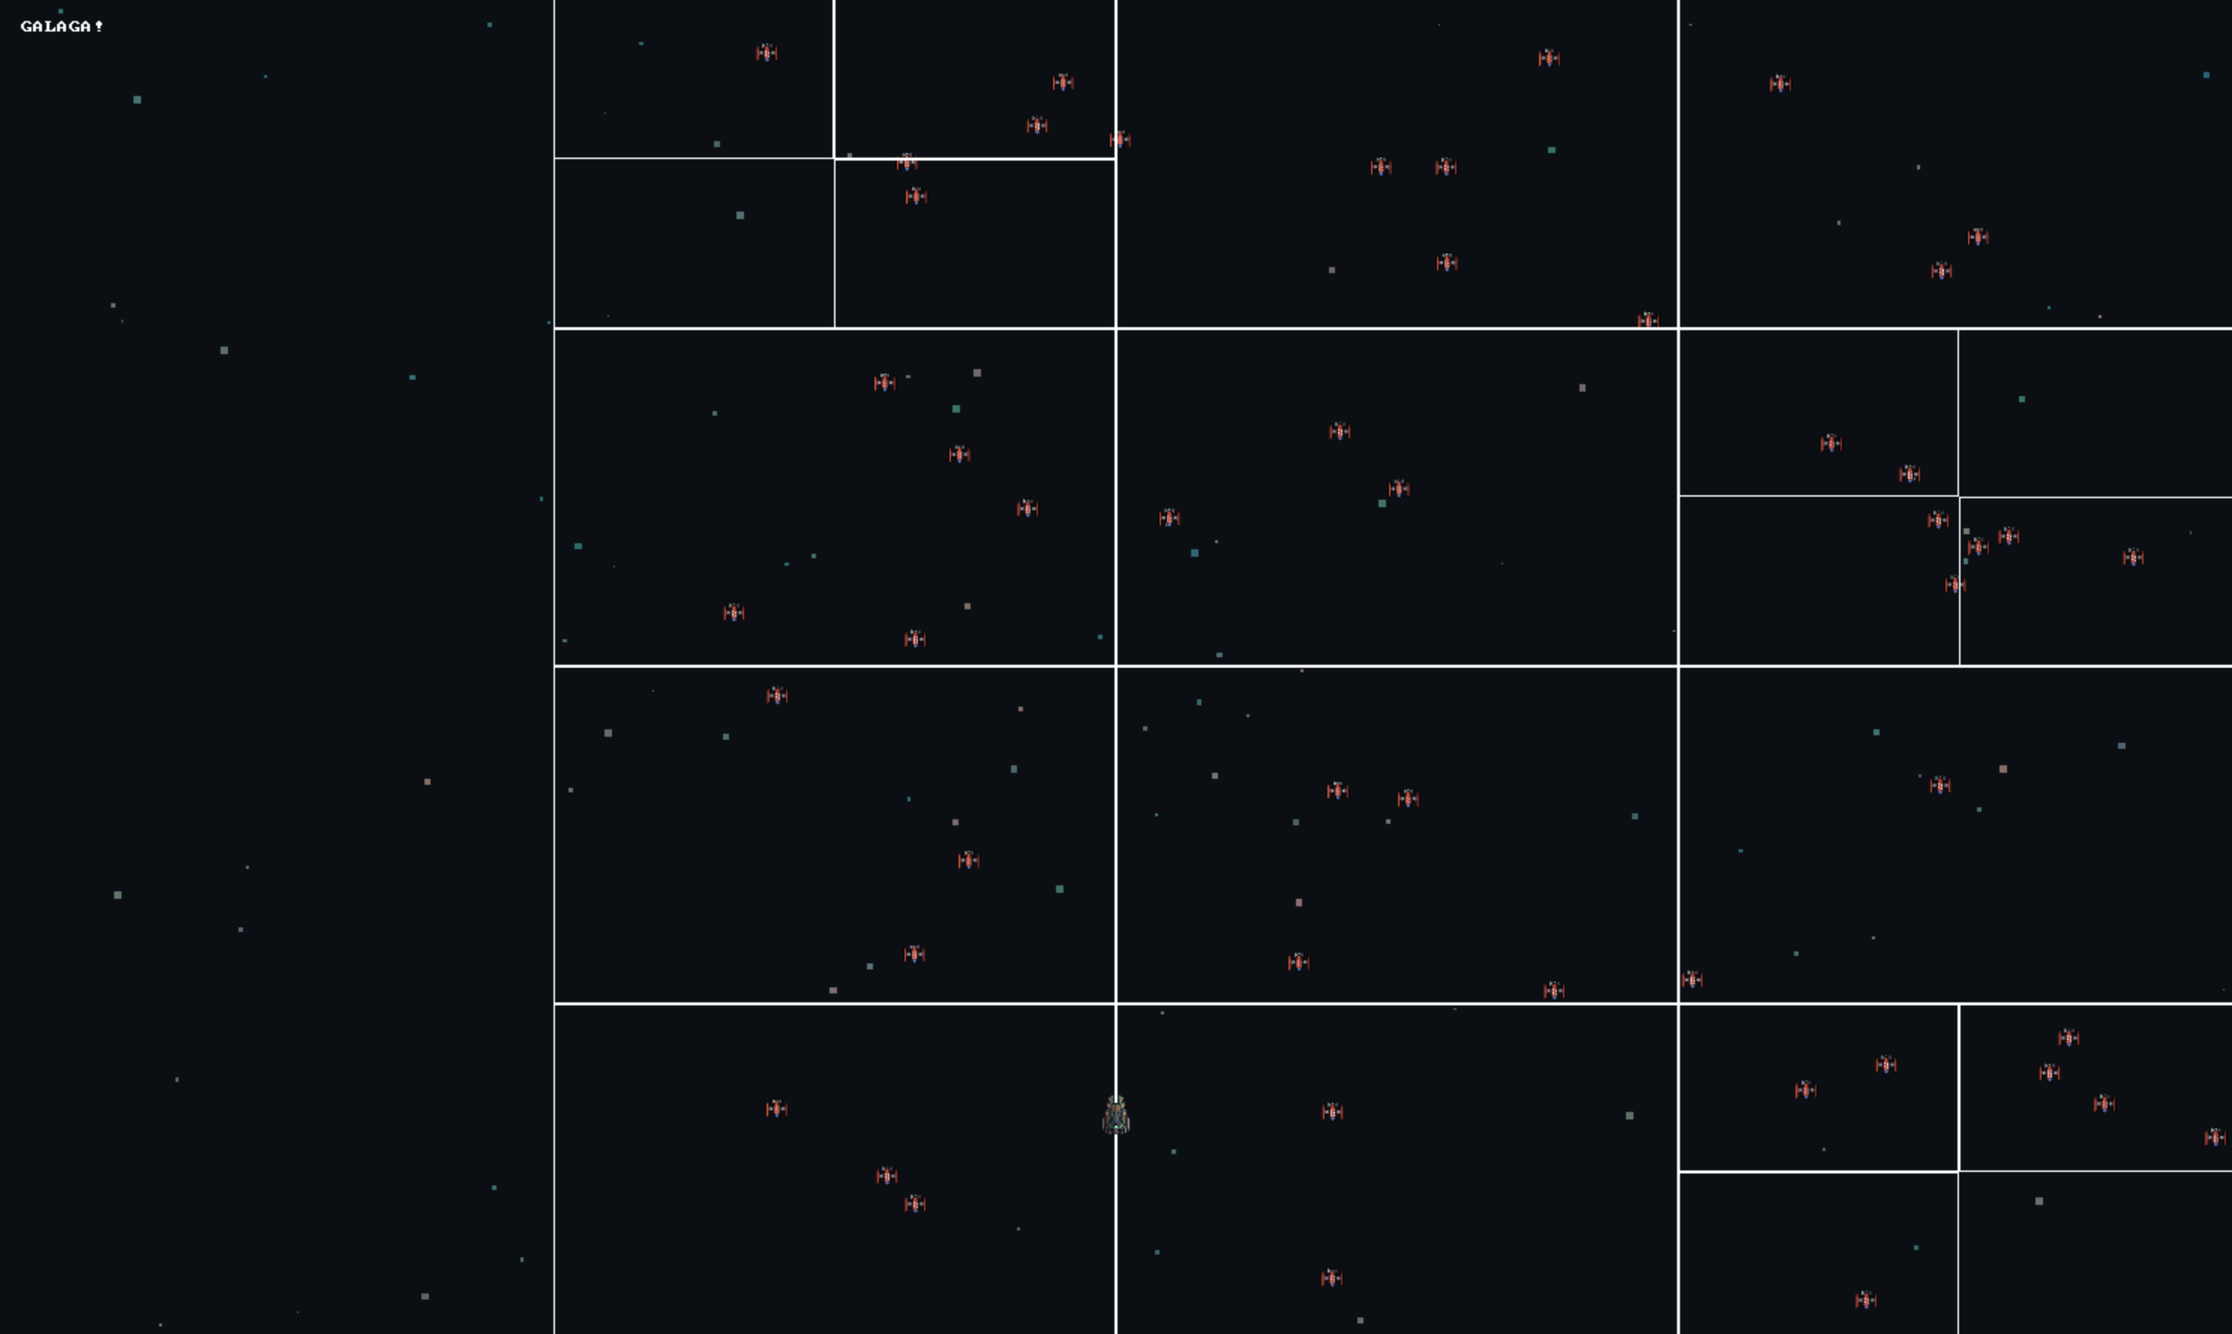
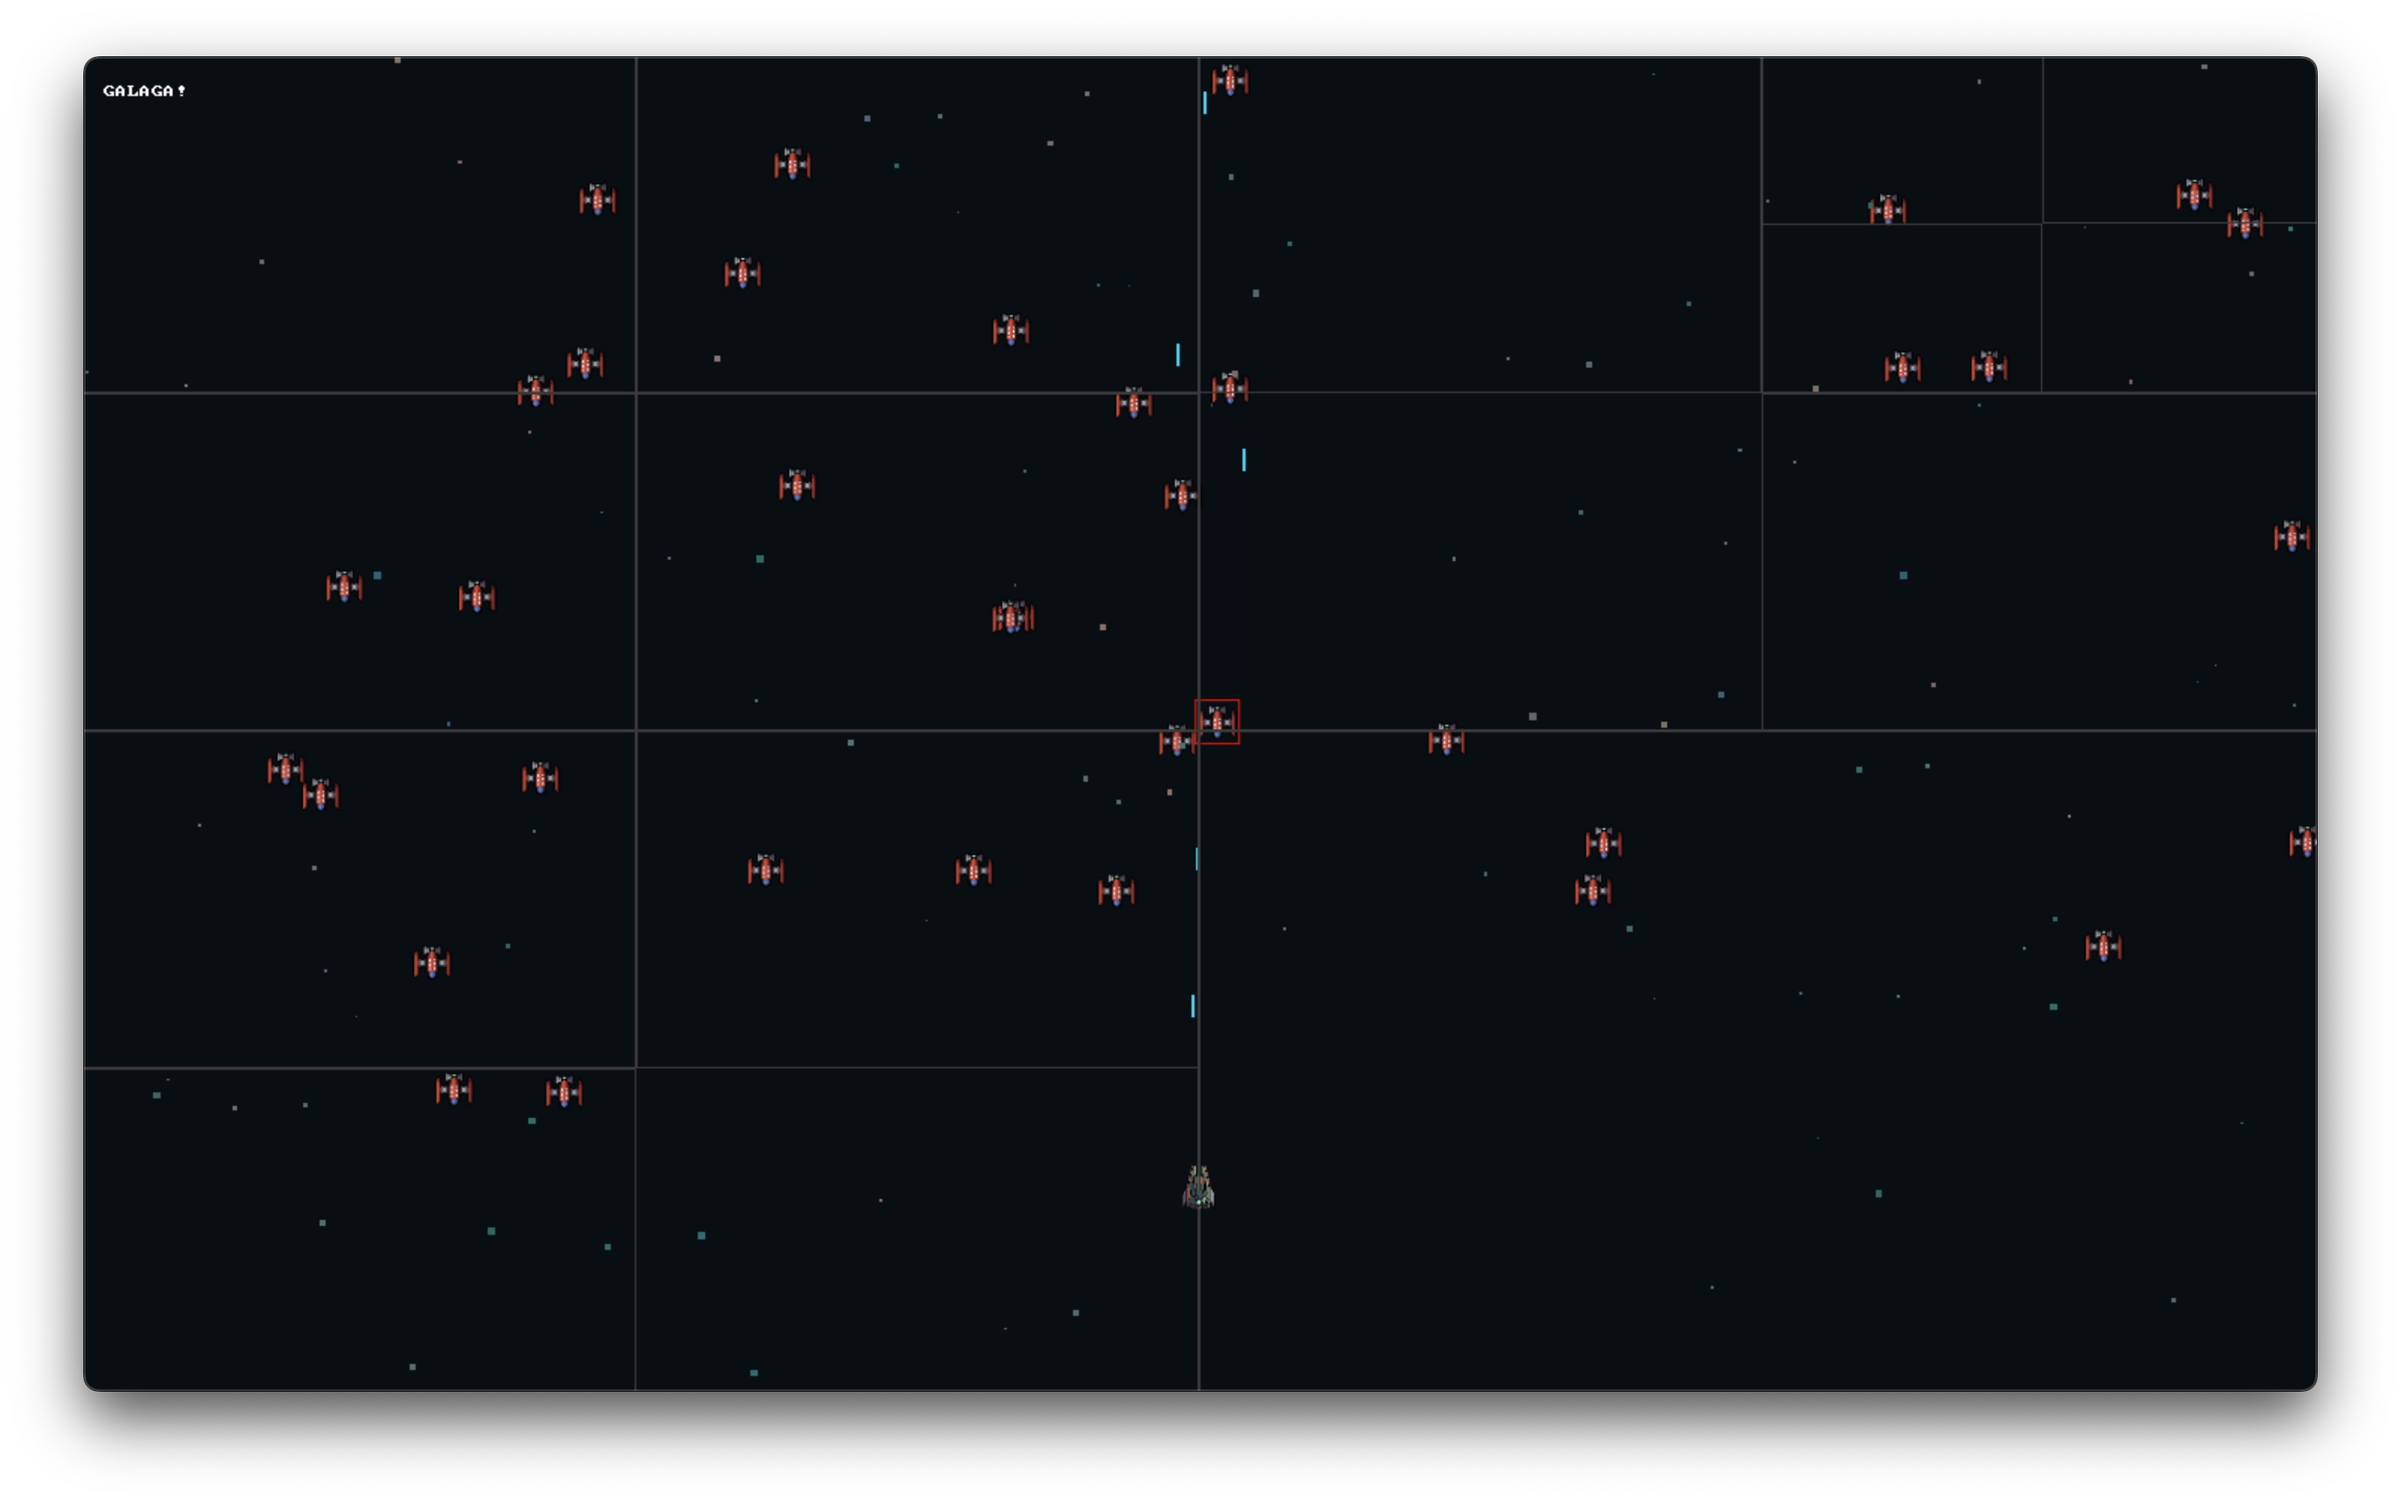
readme update

diff --git a/README.md b/README.md
@@ -39,5 +39,7 @@ Written using SDL in C.
 - Assets procured from [here](https://foozlecc.itch.io/void-fleet-pack-2)
 - Yes, I know a Quad Tree was definitely not required for this to run smoothly. But it's a good learning opportunity so why not.
 
-Screenshot of Quad Tree boundaries
+#### Screenshot of Quad Tree boundaries
+
+Here you can see how the quad tree divides up the space and then the red hit box around an enemy that's just been hit. Notice how collisions work despite the enemy spanning multiple quadrants.
 ![Quad Tree](assets/quadtree.png)
